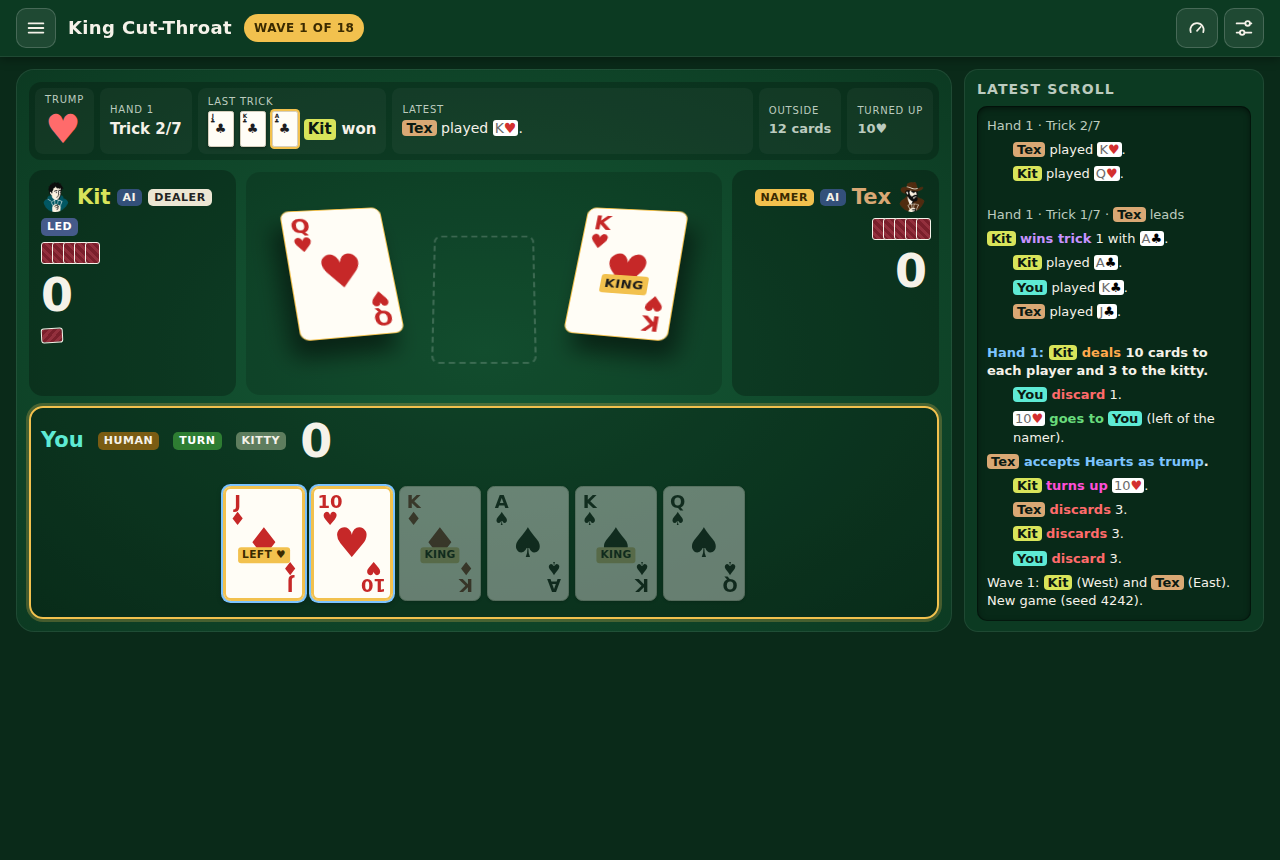
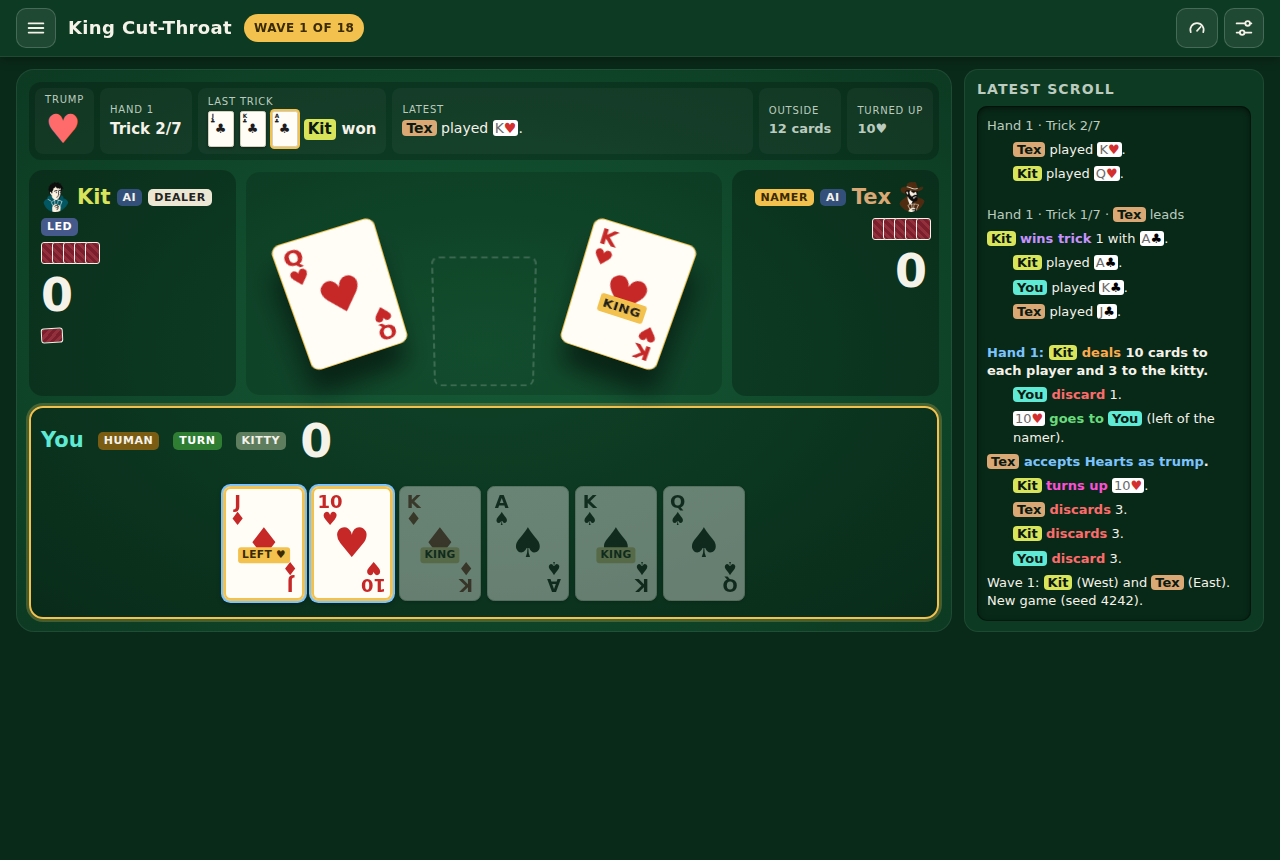
Aim the 3D trick cards down at the board
Each card now leans its top toward you (rotateX -24deg), so the faces
aim down at the board instead of up at the ceiling.

Claude-Session: https://claude.ai/code/session_01QkpazkapUFZWg4SWZB1dDA

Changed region(s): [[0.4375, 0.2419, 0.5625, 0.4535], [0.1875, 0.2419, 0.3438, 0.4535]]

diff --git a/index.html b/index.html
@@ -2066,7 +2066,7 @@ const UI_PROFILE_ADVANCED = Object.freeze({
   '.who': { kind: 'L, S', show: 'Hidden. The slot\'s position shows who played.', click: null },
   '.summary': { kind: 'S, R', show: 'As now.', click: 'Its Continue button moves on, as now.' },
   '.meta': { kind: 'R', show: 'As now.', click: null },
-  '.trick': { kind: 'S', show: 'As now: one slot per seat, your slot lower than the bot slots, as at a real table. The trick cards are larger (about 1.2 times) and in 3D: the table tilts away from you, each bot card turns to face your slot, and every card lifts with a soft shadow. Reduced motion keeps the pose but drops the transition. At trick end the cards slide to the winner\'s won-trick stack.', click: 'Skips the trick-end wait, as now.', issue: 53 },
+  '.trick': { kind: 'S', show: 'As now: one slot per seat, your slot lower than the bot slots, as at a real table. The trick cards are larger (about 1.2 times) and in 3D: each card leans its top toward you so its face aims down at the board, each bot card turns toward your slot, and every card lifts with a soft shadow. Reduced motion keeps the pose but drops the transition. At trick end the cards slide to the winner\'s won-trick stack.', click: 'Skips the trick-end wait, as now.', issue: 53 },
   'table.stats': { kind: 'R', show: 'As now.', click: null },
   '.status': { kind: 'S', show: 'Hidden on screen. #liveStatus still reads the full sentence to screen readers.', click: null, issue: 53 },
   '.lasttrick': { kind: 'R', show: 'Hidden in the center. The Last trick cell of the information strip shows it.', click: null, issue: 53 },

diff --git a/mockups/advanced.js b/mockups/advanced.js
@@ -42,13 +42,13 @@ const css = `
 .won .mini-back:nth-child(2n){transform:rotate(2deg)}
 .seat-east .won{justify-content:flex-end}
 /* Trick cards in 3D: the table tilts away from you, each bot card turns to face your slot, lifted and larger. */
-.trick{perspective:900px;perspective-origin:50% 120%;min-height:calc(var(--cw)*2.7)!important;padding:18px 10px 14px!important}
+.trick{perspective:900px;perspective-origin:50% 40%;min-height:calc(var(--cw)*2.7)!important;padding:18px 10px 14px!important}
 .trick .slot{transform-style:preserve-3d}
 .trick .slot .card,.trick .slot .empty{--w:calc(var(--cw)*1.22);width:var(--w);height:calc(var(--w)*1.4);transition:transform .3s}
-.trick .slot-1 .card{transform:rotateX(22deg) rotateY(16deg) rotateZ(-14deg) translateZ(30px);box-shadow:-10px 18px 22px rgba(0,0,0,.5)}
-.trick .slot-2 .card{transform:rotateX(22deg) rotateY(-16deg) rotateZ(14deg) translateZ(30px);box-shadow:10px 18px 22px rgba(0,0,0,.5)}
-.trick .slot-0 .card,.trick .slot-0 .empty{transform:rotateX(22deg) translateZ(30px)}
-.trick .slot-0 .card{box-shadow:0 18px 22px rgba(0,0,0,.5)}
+.trick .slot-1 .card{transform:rotateX(-24deg) rotateY(16deg) rotateZ(-14deg) translateZ(30px);box-shadow:-8px 26px 26px rgba(0,0,0,.5)}
+.trick .slot-2 .card{transform:rotateX(-24deg) rotateY(-16deg) rotateZ(14deg) translateZ(30px);box-shadow:8px 26px 26px rgba(0,0,0,.5)}
+.trick .slot-0 .card,.trick .slot-0 .empty{transform:rotateX(-24deg) translateZ(30px)}
+.trick .slot-0 .card{box-shadow:0 26px 26px rgba(0,0,0,.5)}
 .c-tag.king{background:#f2c14e;color:#1b1b1b}
 .gamelog li.gap:first-child{margin-top:0}
 `;
